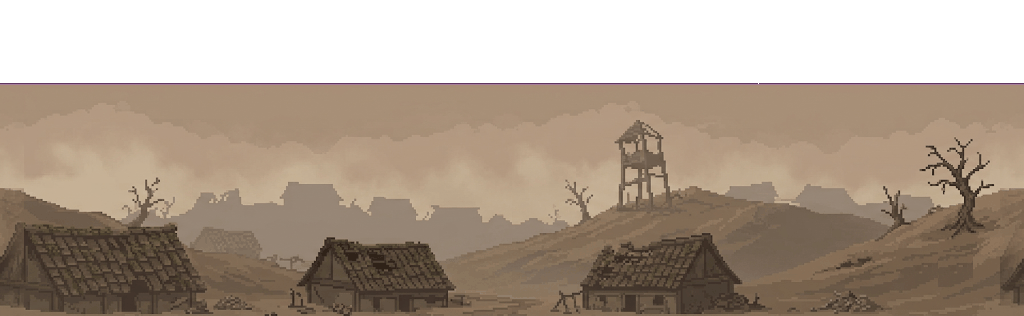
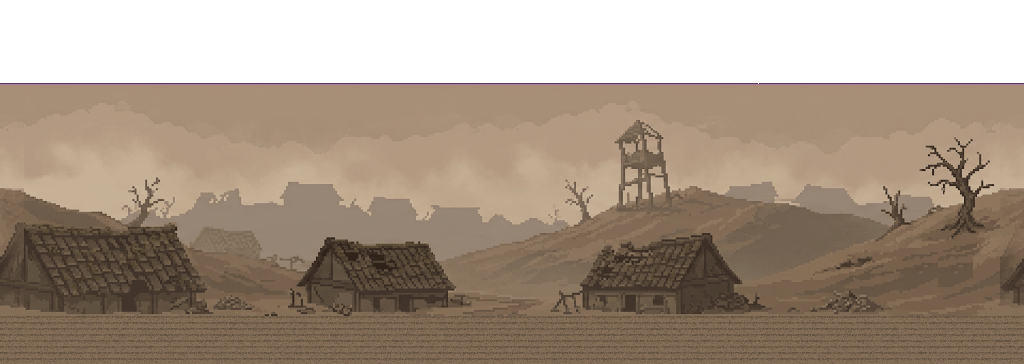
v2.69.1 폐촌 원경 집 잘림 — 아래 땅 띠 덧대기(--pad), 디졸브 계단 16
Claude-Session: https://claude.ai/code/session_01JNaHhiKtytcgy14ocCuYm4

Changed region(s): [[0.0, 0.3418, 1.0, 1.0], [0.0, 0.2278, 1.0, 0.2848], [0.7812, 0.9114, 0.875, 0.9968]]

diff --git a/src/00-data.js b/src/00-data.js
@@ -225,7 +225,7 @@ const BACKDROP = {
   // 아래 디졸브 띠 — 그림 높이의 비율(fadeR)로 잡는다. v2.63.6: 64px 고정은 폰(VH≈280,
   // 그림 84px)에서 그림의 3/4를 녹여 집·나무 아랫도리가 다 잘려 보였다("아래쪽이 다 짤려").
   // 이제 아래 14%만 녹인다 — 집 주춧돌만 땅에 스민다.
-  fadeR: 0.14, fadeMin: 8, fadeSteps: 8, fadePow: 1.0,
+  fadeR: 0.14, fadeMin: 8, fadeSteps: 16, fadePow: 1.0,   // 계단 16 — 폐촌 덧댄 땅 띠(48px)에서 8단은 6px 띠가 보였다
   cull: 0.5,                                    // 지평선 위(fade의 이 비율 지점부터) 소품 안 세움
   keys: { bamboo:'bg_bamboo', village:'bg_village', cave:'bg_cave', snow:'bg_snow', heaven:'bg_heaven' },
   sky:  { bamboo:'#becfbc', village:'#a78e76', cave:'#3f444b', snow:'#cddae8', heaven:'#d8dbc6' },  // 그림 위 남는 하늘(시트 윗줄 평균)

diff --git a/bg_extract.py b/bg_extract.py
@@ -62,6 +62,26 @@ while trim > int(H * 0.6):
     trim -= 1
 if trim < H:
     print('아래 평평한 띠 %dpx 제거' % (H - trim)); rgba = rgba[:trim]
+# --pad=N : 아래에 땅 N줄을 덧댄다 — 집·바위가 그림 맨 아래에 붙어 있으면 디졸브가 그걸 녹인다
+# (폐촌 "집이 잘려 보여", v2.69.1). 맨 아래 6줄을 위아래 번갈아 이어 붙이고 살짝 흔들어 줄무늬를 죽인다.
+for arg in sys.argv[2:]:
+    if arg.startswith('--pad'):
+        n = int(arg.split('=')[1]); Hh = rgba.shape[0]
+        band = rgba[Hh - 6:Hh].astype(int)
+        # 집 벽이 맨 아래까지 닿아 있어 그 줄을 그대로 이으면 벽이 물에 비친 듯 줄무늬가 된다 —
+        # 줄마다 중앙값에 가까운 픽셀(땅)만 골라 가로로 섞어 벽 구조 없는 땅 띠를 만든다
+        rng = np.random.RandomState(7)
+        rows = []
+        for i in range(n):
+            src = band[i % 6]
+            med = np.median(src[:, :3], axis=0)
+            ground = np.abs(src[:, :3] - med).sum(1) < 40
+            pool = src[ground] if ground.sum() > 50 else src
+            pick = pool[rng.randint(0, len(pool), size=src.shape[0])]
+            pick = pick.copy(); pick[:, :3] = np.clip(pick[:, :3] + rng.randint(-2, 3, size=(src.shape[0], 1)), 0, 255)
+            rows.append(pick.astype(np.uint8))
+        rgba = np.concatenate([rgba, np.stack(rows)], 0)
+        print('아래 땅 %d줄 덧댐' % n)
 out = '%s/assets/bg_%s.png' % (R, zone)
 im = Image.fromarray(rgba, 'RGBA')
 # 용량 — 게임은 높이 ~290px로 그리니 폭 1024면 충분(2000px 시트는 2배 오버샘플).

diff --git a/VERSION.md b/VERSION.md
@@ -1,3 +1,10 @@
+# v2.69.1 — 폐촌 원경 집 잘림 재수정 (2026-09-15)
+
+- 폐촌 시트는 집 벽이 그림 맨 아랫줄까지 닿아 있어, 디졸브 띠를 14%로 줄여도 벽 아래가 녹았다
+  ("여전히 집이 잘려"). bg_extract에 `--pad=N`: 맨 아래 6줄에서 땅 픽셀(줄 중앙값 근처)만 골라
+  가로로 섞은 땅 띠 48줄을 덧댄다 — 디졸브가 집 대신 이 띠를 녹인다(벽 줄을 그대로 이으면
+  물에 비친 듯 줄무늬가 됐다). 디졸브 계단 8→16(6px 띠 제거).
+
 # v2.69 — 사냥터 여정 지도 일러스트 (사용자 그림, 2026-09-15)
 
 - 사냥터 패널이 양피지 지도(assets/zone_map, 720² 디더 팔레트 392KB) 위에 노드를 얹는다.
